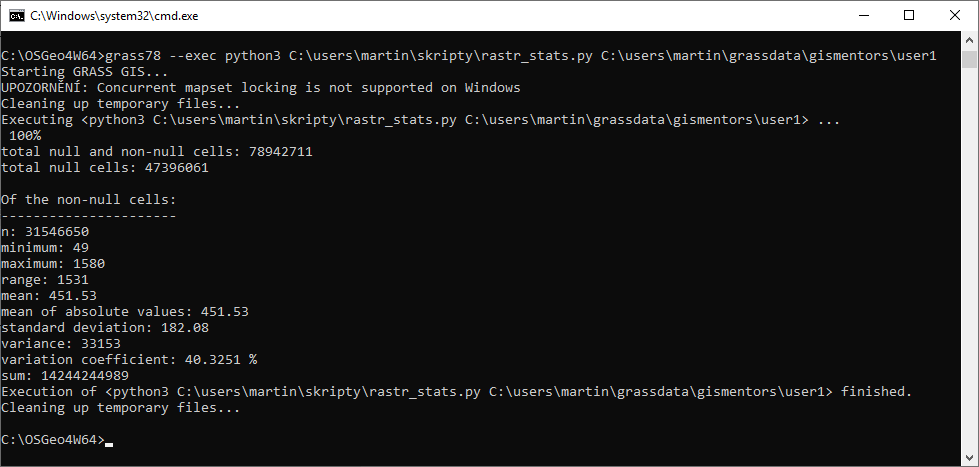
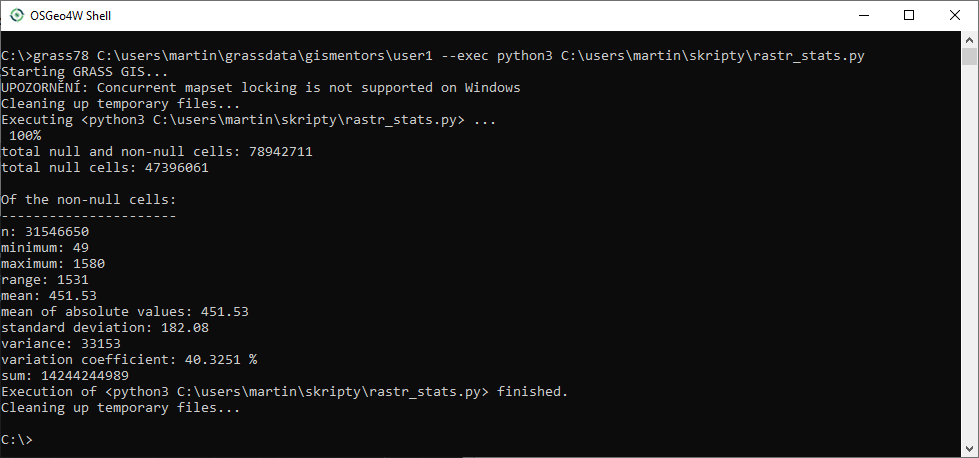
update screenshots

Changed region(s): [[0.0, 0.0917, 0.9499, 1.0], [0.0, 0.0, 0.2145, 0.0611], [0.9806, 0.0917, 1.0, 0.1223]]

diff --git a/skripty/spusteni.rst b/skripty/spusteni.rst
@@ -270,7 +270,7 @@ nutné zavolat ``py3_env``, který nastaví prostředí pro Python 3):
    py3_env
    python3 C:\users\martin\skripty\rastr_stats.py
 
-.. figure:: images/windows-exec.png
+.. figure:: images/windows-launch.png
 
    Spuštění skriptu z příkazové řádky OSGeo4W.
 
